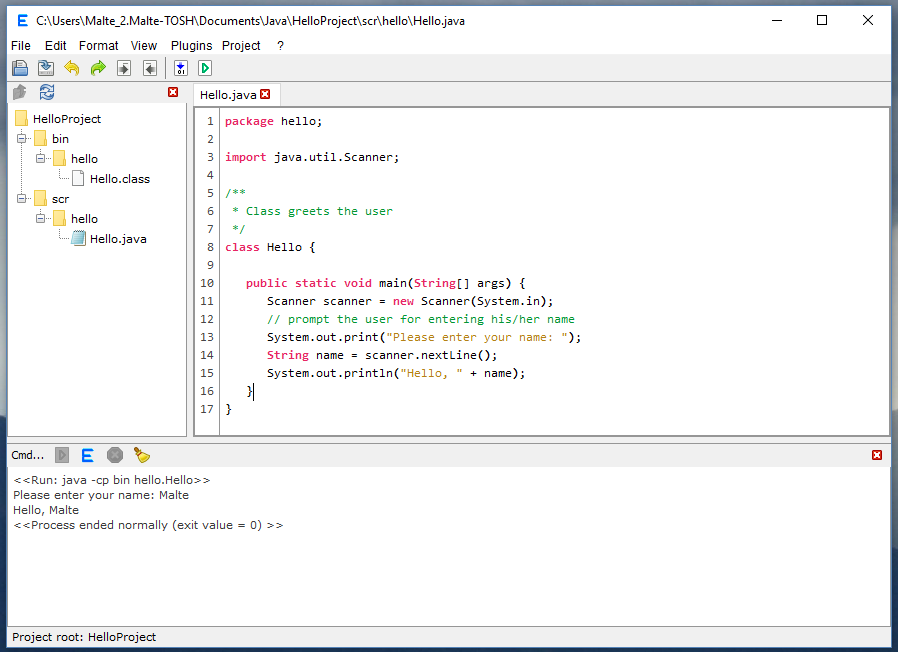
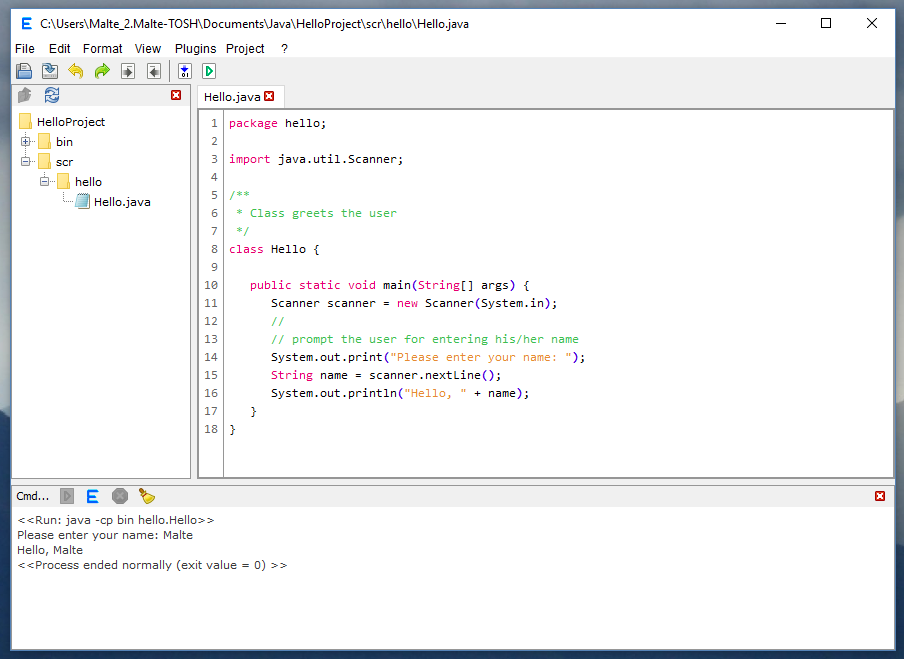
colorsII

Changed region(s): [[0.0, 0.0, 1.0, 1.0], [0.2806, 0.4294, 0.6548, 0.6135]]

diff --git a/scr/eg/document/TypeText.java b/scr/eg/document/TypeText.java
@@ -266,7 +266,7 @@ public class TypeText implements DocumentListener {
       StyleConstants.setForeground(brSet, bracketBlue);
       StyleConstants.setBold(brSet, true);
 
-      Color strLitOrange = new Color(255, 140, 0);
+      Color strLitOrange = new Color(230, 140, 50);
       StyleConstants.setForeground(strLitSet, strLitOrange );
       StyleConstants.setBold(strLitSet, false );
    }
